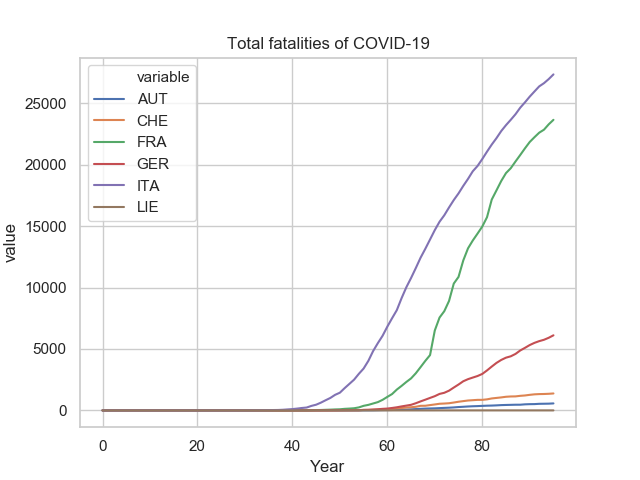
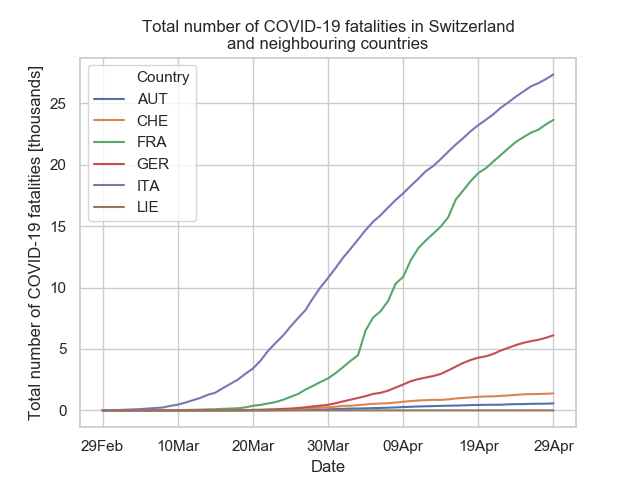
total_deaths_neighbours

diff --git a/scripts/total_deaths_neighbours.py b/scripts/total_deaths_neighbours.py
@@ -8,6 +8,9 @@ data = []
 for country in countries:
     country_data = pd.read_csv('%s.csv'%(country))
     data.append(np.asarray(country_data[['total_deaths']]))
+    if country == 'fra':
+        dates = np.asarray(country_data[['date']])
+        dates = np.squeeze(dates, axis=1)
 data = np.asarray(data)
 
 for i in range(len(data)):
@@ -19,11 +22,14 @@ data[3] = np.pad(data[3], (3, 0), 'constant', constant_values=(0, 0))
 data[4] = np.pad(data[4], (6, 0), 'constant', constant_values=(0, 0))
 data[5] = np.pad(data[5], (46, 0), 'constant', constant_values=(0, 0))
 
+for i in range(len(data)):
+    data[i] = data[i][35:]
+
 data = np.asarray(data)
-x = np.arange(0,96,1)
+x = np.arange(0,61,1)
 
 data_preproc = pd.DataFrame({
-    'Year': x,
+    'Date': x,
     'AUT': data[0],
     'CHE': data[1],
     'FRA': data[2],
@@ -35,8 +41,12 @@ sns.set(style="whitegrid")
 
 fig, ax = plt.subplots()
 
-plot = sns.lineplot(x = 'Year', y = 'value', hue='variable', data=pd.melt(data_preproc, ['Year']))
-plot.set(title='Total fatalities of COVID-19')
+plot = sns.lineplot(x = 'Date', y = 'value', hue='Country',
+                    data=pd.melt(data_preproc, ['Date'], var_name='Country'))
+plot.set(title='Total number of COVID-19 fatalities in Switzerland\nand neighbouring countries',
+         ylabel='Total number of COVID-19 fatalities [thousands]', yticks=np.arange(0,26000,5000),
+         yticklabels = np.arange(0,26,5), xticks=np.arange(0,70,10),
+         xticklabels=[dates[i] for i in range(35,35+70,10)])
 
 plot = ax.get_figure()
 fig.savefig('total_deaths_neighbours.png')
